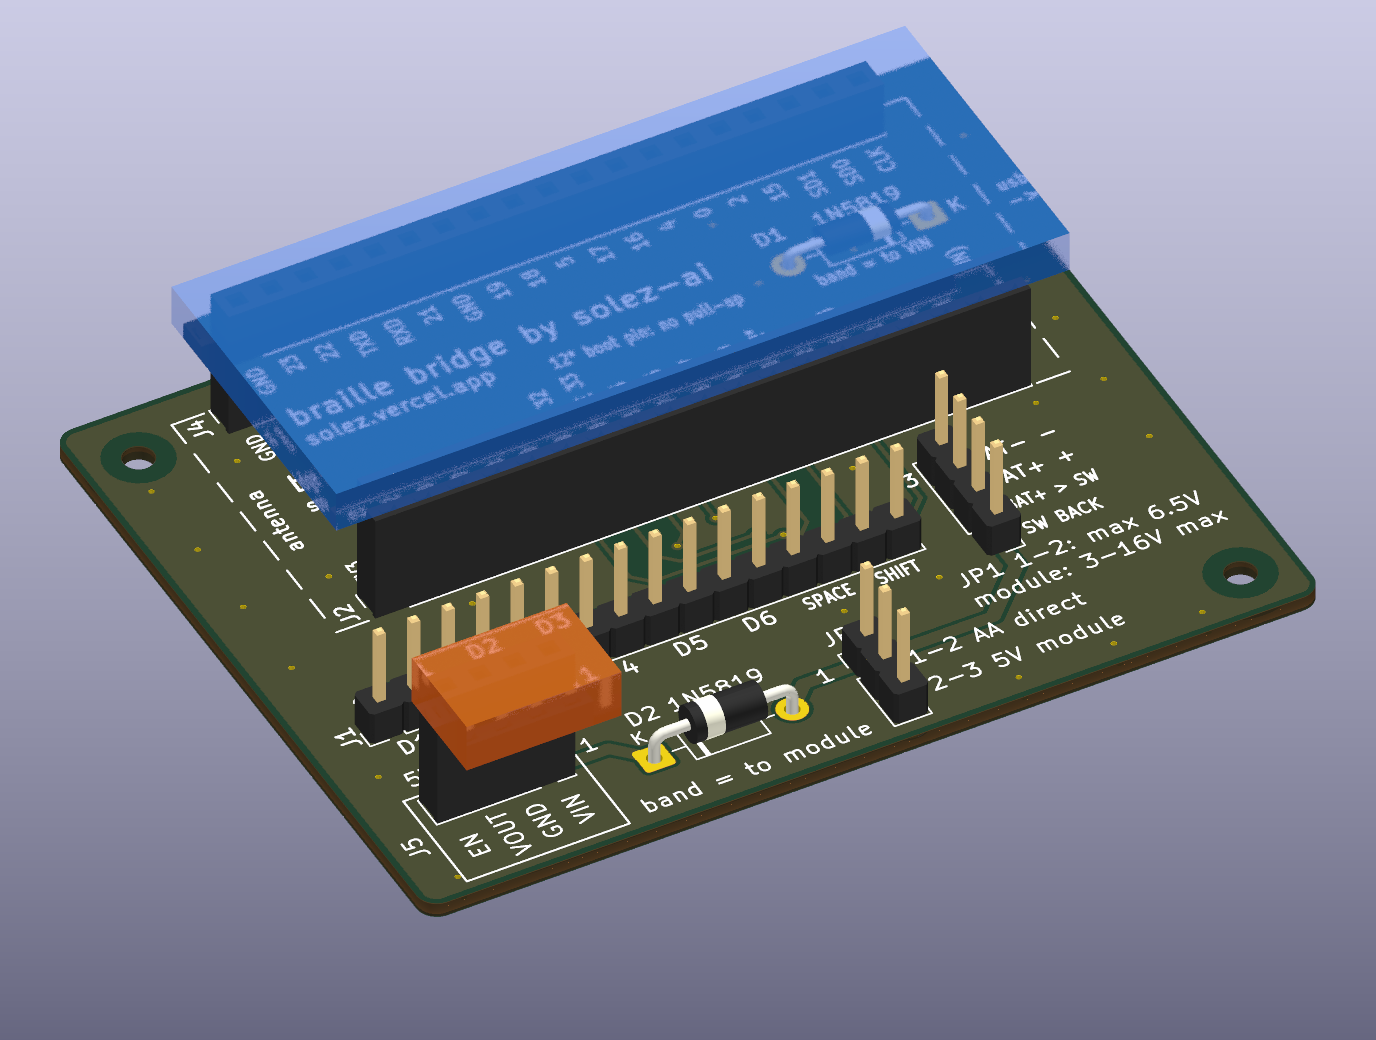
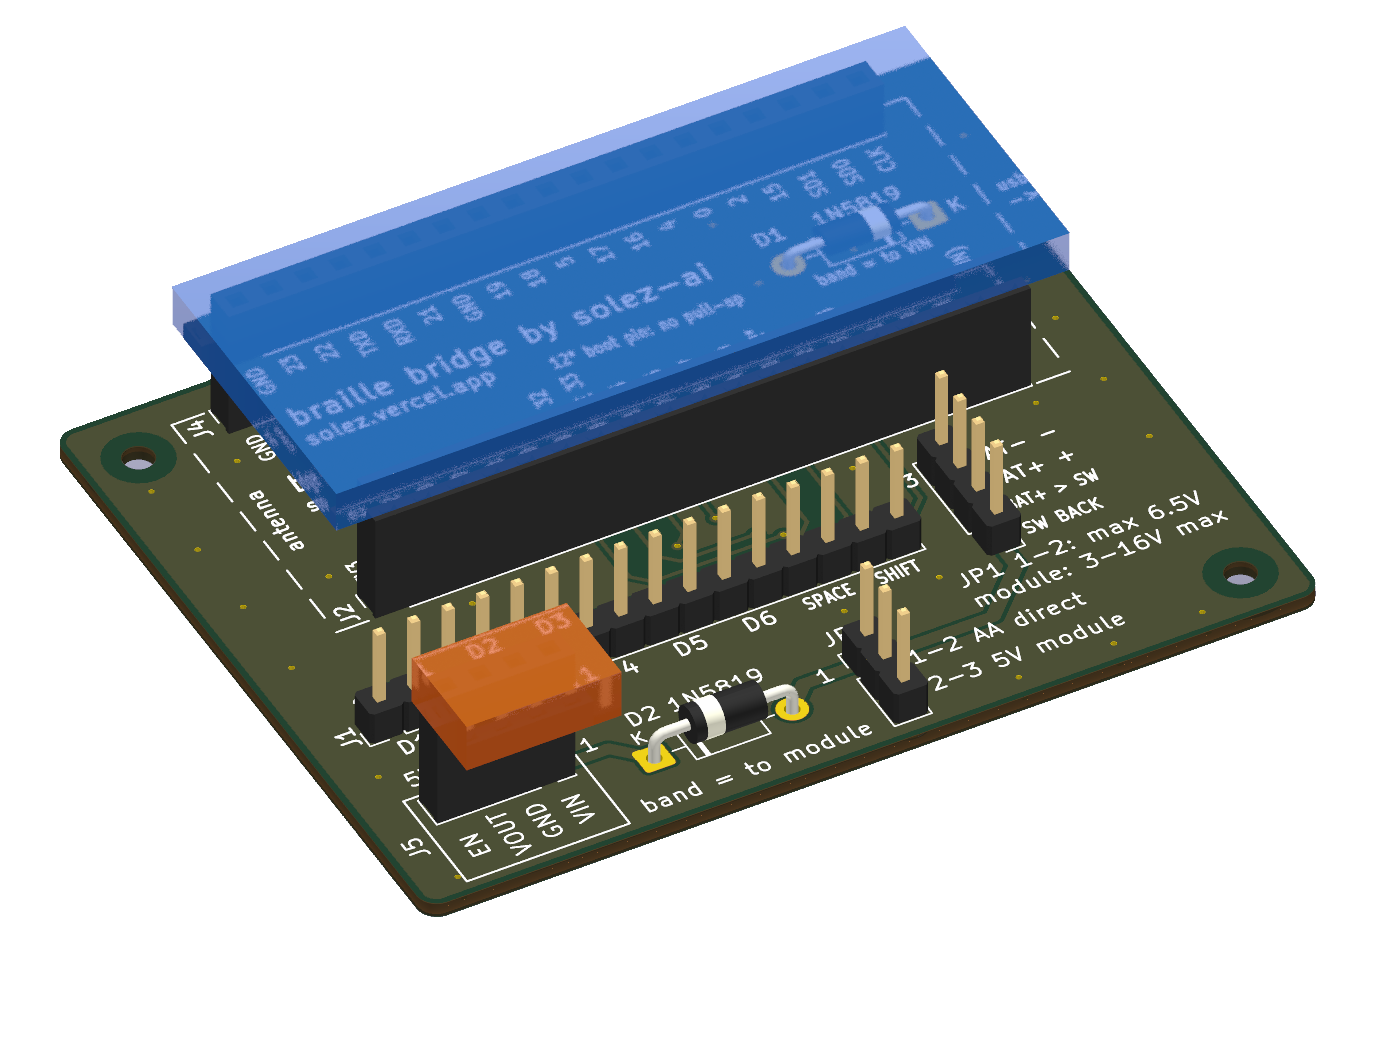
Make 3D PCB viewer renders transparent and match KiCad 10 3D viewport gradient seamlessly

diff --git a/website/style.css b/website/style.css
@@ -1969,7 +1969,7 @@ body.is-loading .braille-scroll-rail {
 
 .pcb-viewport-3d-img {
   height: 430px;
-  background: linear-gradient(180deg, #98a2bd 0%, #c0c7da 100%);
+  background: linear-gradient(180deg, #cbcbe4 0%, #a3a3bb 50%, #666680 100%);
   display: flex;
   align-items: center;
   justify-content: center;
